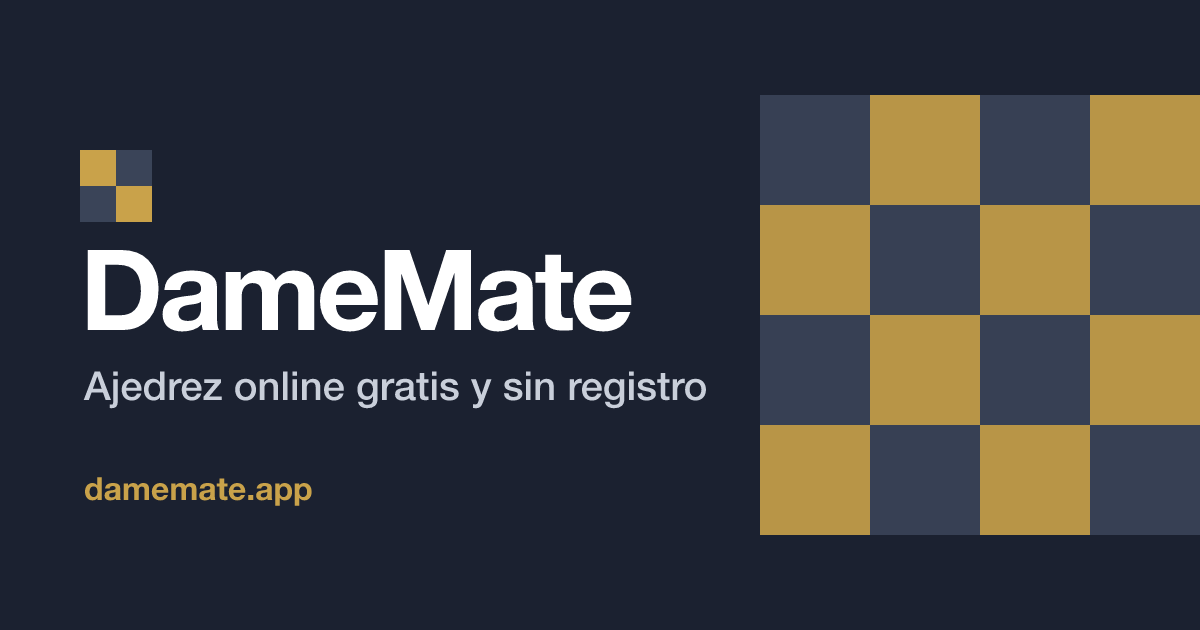
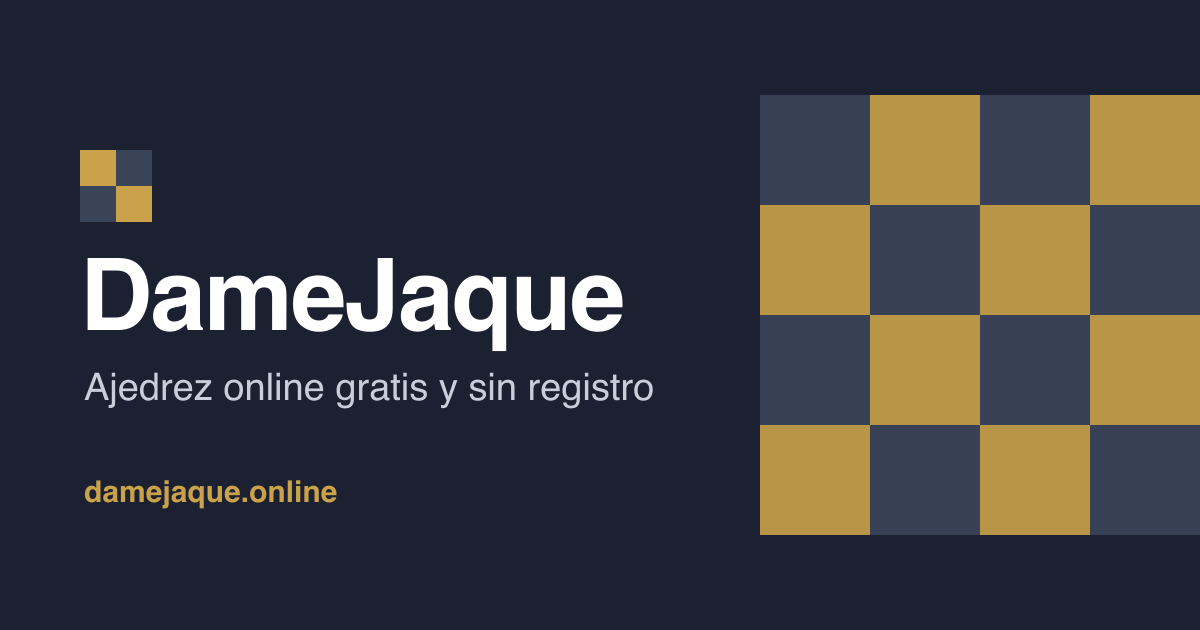
Dominio damejaque.online y marca DameJaque
- damemate.app → damejaque.online en canonical, Open Graph, robots.txt,
  sitemap, CANONICAL_HOST del Worker, pruebas y README.
- Marca DameMate → DameJaque (títulos, manifest y og.png).
- Custom Domains (damejaque.online y www) declarados en routes de
  wrangler.jsonc: se enlazan solos al publicar producción.

Changed region(s): [[0.0617, 0.3921, 0.5242, 0.573], [0.0617, 0.573, 0.5858, 0.6635], [0.0617, 0.754, 0.2775, 0.8143]]

diff --git a/apps/worker/test/site.test.ts b/apps/worker/test/site.test.ts
@@ -1,7 +1,7 @@
 import { describe, expect, it } from 'vitest';
 import { canonicalRedirect, serveSite } from '../src/site';
 
-const prod = { ENVIRONMENT: 'production', CANONICAL_HOST: 'damemate.app' } as unknown as Env;
+const prod = { ENVIRONMENT: 'production', CANONICAL_HOST: 'damejaque.online' } as unknown as Env;
 const preview = { ENVIRONMENT: 'preview', CANONICAL_HOST: '' } as unknown as Env;
 
 /** Assets falsos: /, /200 y /robots.txt existen; lo demás es 404. */
@@ -22,17 +22,17 @@ const withAssets = (env: Env): Env =>
 const redirect = (url: string, env = prod) => canonicalRedirect(new URL(url), env);
 
 describe('dominio canónico', () => {
-  it('redirige www y workers.dev a damemate.app con 301, conservando ruta y consulta', () => {
-    for (const from of ['https://www.damemate.app/AbCdEfGh?x=1', 'https://jaque.gusideveloper.workers.dev/AbCdEfGh?x=1']) {
+  it('redirige www y workers.dev a damejaque.online con 301, conservando ruta y consulta', () => {
+    for (const from of ['https://www.damejaque.online/AbCdEfGh?x=1', 'https://jaque.gusideveloper.workers.dev/AbCdEfGh?x=1']) {
       const r = redirect(from)!;
       expect(r.status).toBe(301);
-      expect(r.headers.get('Location')).toBe('https://damemate.app/AbCdEfGh?x=1');
+      expect(r.headers.get('Location')).toBe('https://damejaque.online/AbCdEfGh?x=1');
     }
   });
 
   it('no redirige el dominio canónico, /api, /ws, local ni las Previews', () => {
-    expect(redirect('https://damemate.app/')).toBeNull();
-    expect(redirect('https://www.damemate.app/api/health')).toBeNull();
+    expect(redirect('https://damejaque.online/')).toBeNull();
+    expect(redirect('https://www.damejaque.online/api/health')).toBeNull();
     expect(redirect('https://jaque.gusideveloper.workers.dev/ws/lobby')).toBeNull();
     expect(redirect('http://localhost:8787/')).toBeNull();
     expect(redirect('https://develop-jaque.gusideveloper.workers.dev/', preview)).toBeNull();
@@ -40,7 +40,7 @@ describe('dominio canónico', () => {
 });
 
 describe('assets y fallback de la SPA', () => {
-  const get = (path: string, env = prod) => serveSite(new Request(`https://damemate.app${path}`), withAssets(env));
+  const get = (path: string, env = prod) => serveSite(new Request(`https://damejaque.online${path}`), withAssets(env));
 
   it('sirve los archivos y el shell de la SPA: 200 en partidas, 404 en el resto', async () => {
     expect(await (await get('/')).text()).toBe('portada');

diff --git a/apps/web/src/app.html b/apps/web/src/app.html
@@ -5,18 +5,18 @@
     <meta name="viewport" content="width=device-width, initial-scale=1, viewport-fit=cover" />
     <meta name="description" content="Juega al ajedrez online gratis y sin registro: partidas rápidas, retos con amigos y partidas contra la máquina." />
     <!-- Vista previa al compartir enlaces (también los de partidas, que no ejecutan JavaScript). -->
-    <meta property="og:site_name" content="DameMate" />
+    <meta property="og:site_name" content="DameJaque" />
     <meta property="og:type" content="website" />
     <meta property="og:locale" content="es_ES" />
-    <meta property="og:title" content="DameMate · Ajedrez online gratis y sin registro" />
+    <meta property="og:title" content="DameJaque · Ajedrez online gratis y sin registro" />
     <meta property="og:description" content="Partidas rápidas por ritmo, retos con amigos por enlace y partidas contra la máquina. Sin registro." />
-    <meta property="og:image" content="https://damemate.app/og.png" />
+    <meta property="og:image" content="https://damejaque.online/og.png" />
     <meta property="og:image:width" content="1200" />
     <meta property="og:image:height" content="630" />
-    <meta property="og:image:alt" content="DameMate, ajedrez online" />
+    <meta property="og:image:alt" content="DameJaque, ajedrez online" />
     <meta name="twitter:card" content="summary_large_image" />
-    <meta name="application-name" content="DameMate" />
-    <meta name="apple-mobile-web-app-title" content="DameMate" />
+    <meta name="application-name" content="DameJaque" />
+    <meta name="apple-mobile-web-app-title" content="DameJaque" />
     <meta name="theme-color" content="#eceef2" media="(prefers-color-scheme: light)" />
     <meta name="theme-color" content="#1b2130" media="(prefers-color-scheme: dark)" />
     <link rel="icon" href="%sveltekit.assets%/favicon.svg" type="image/svg+xml" />

diff --git a/apps/web/src/lib/site.ts b/apps/web/src/lib/site.ts
@@ -1,8 +1,8 @@
 /** Datos públicos del sitio, para títulos, URL canónicas y datos estructurados. */
 export const SITE = {
-  name: 'DameMate',
-  url: (import.meta.env.VITE_SITE_URL as string | undefined) ?? 'https://damemate.app',
-  title: 'DameMate · Ajedrez online gratis y sin registro',
+  name: 'DameJaque',
+  url: (import.meta.env.VITE_SITE_URL as string | undefined) ?? 'https://damejaque.online',
+  title: 'DameJaque · Ajedrez online gratis y sin registro',
   description:
     'Juega al ajedrez online gratis y sin registro: partidas rápidas por ritmo, reta a un amigo con un enlace o juega contra la máquina. Bullet, blitz y rápidas.'
 };
